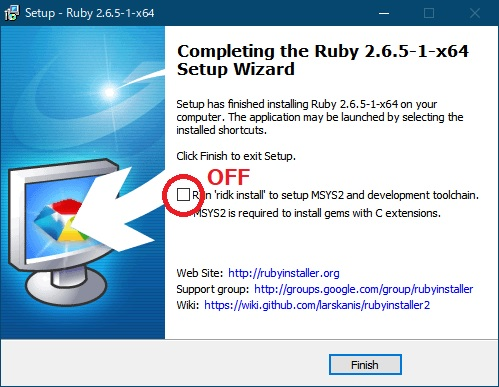
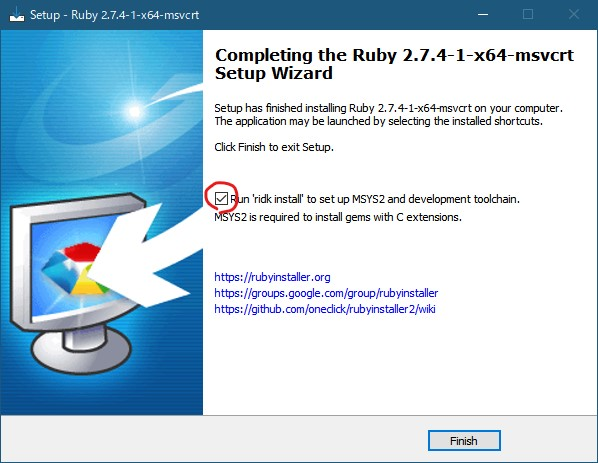
2.7系用にUPDATE

Changed region(s): [[0.0, 0.0, 1.0, 1.0]]

diff --git a/Download_Fonts.rb b/Download_Fonts.rb
@@ -2,7 +2,7 @@
 
 require 'open-uri'
 
-FontsDir = File.expand_path('C:\Ruby26-x64\lib\ruby\gems\2.6.0\gems\asciidoctor-pdf-1.5.3\data\fonts')
+FontsDir = File.expand_path('C:\Ruby27-x64\lib\ruby\gems\2.7.0\gems\asciidoctor-pdf-1.5.4\data\fonts')
 
 FontsKaiGen = %w(
   KaiGenGothicJP-Bold-Italic.ttf

diff --git a/README.md b/README.md
@@ -1,12 +1,10 @@
 # install_asciidoctor-pdf
 
-asciidoctor-pdfをインストールするためのbatファイル。Ruby2.6系、x64ビットWindows用。
-
-asciidoctor-pdfは「1.5.3」、asciidoctor-pdf-cjk-kai_gen_gothicは「0.1.1」をインストールします。
+asciidoctor-pdfをインストールするためのbatファイル。Ruby2.7系、x64ビットWindows用。
 
 ## batファイルの使い方
 
-* [こちら](https://rubyinstaller.org/downloads/)から、Ruby2.6系、x64ビットWindows用のインストーラをダウンロードします。
+* [こちら](https://rubyinstaller.org/downloads/)から、Ruby2.7系、x64ビットWindows用のインストーラをダウンロードします。(+Devkitじゃない方)
 * 「1_Install_Ruby26_x64.bat」のあるフォルダにRubyのインストーラをコピーします。
 * Proxyを設定する時は、「http_prosy.txt」と「https_proxy.txt」に入力してください。書式は以下の通りです。`http://`を付け忘れないこと。また、`http://user:password@・・・`とするとエラーになるようです。
 
@@ -14,5 +12,5 @@ asciidoctor-pdfは「1.5.3」、asciidoctor-pdf-cjk-kai_gen_gothicは「0.1.1」
 http://プロキシのアドレス:ポート番号
 ```
 
-* すでにインストールされているRubyはアンインストールし、「C:\Ruby26-x64」フォルダは削除してください。
+* すでにインストールされているRubyはアンインストールし、残ったフォルダは削除してください。
 * 「1_Install_Ruby26_x64.bat」 ⇒ 「2_Install_Modules.bat」 ⇒ 「3_Install_Fonts.bat」の順で実行します。
